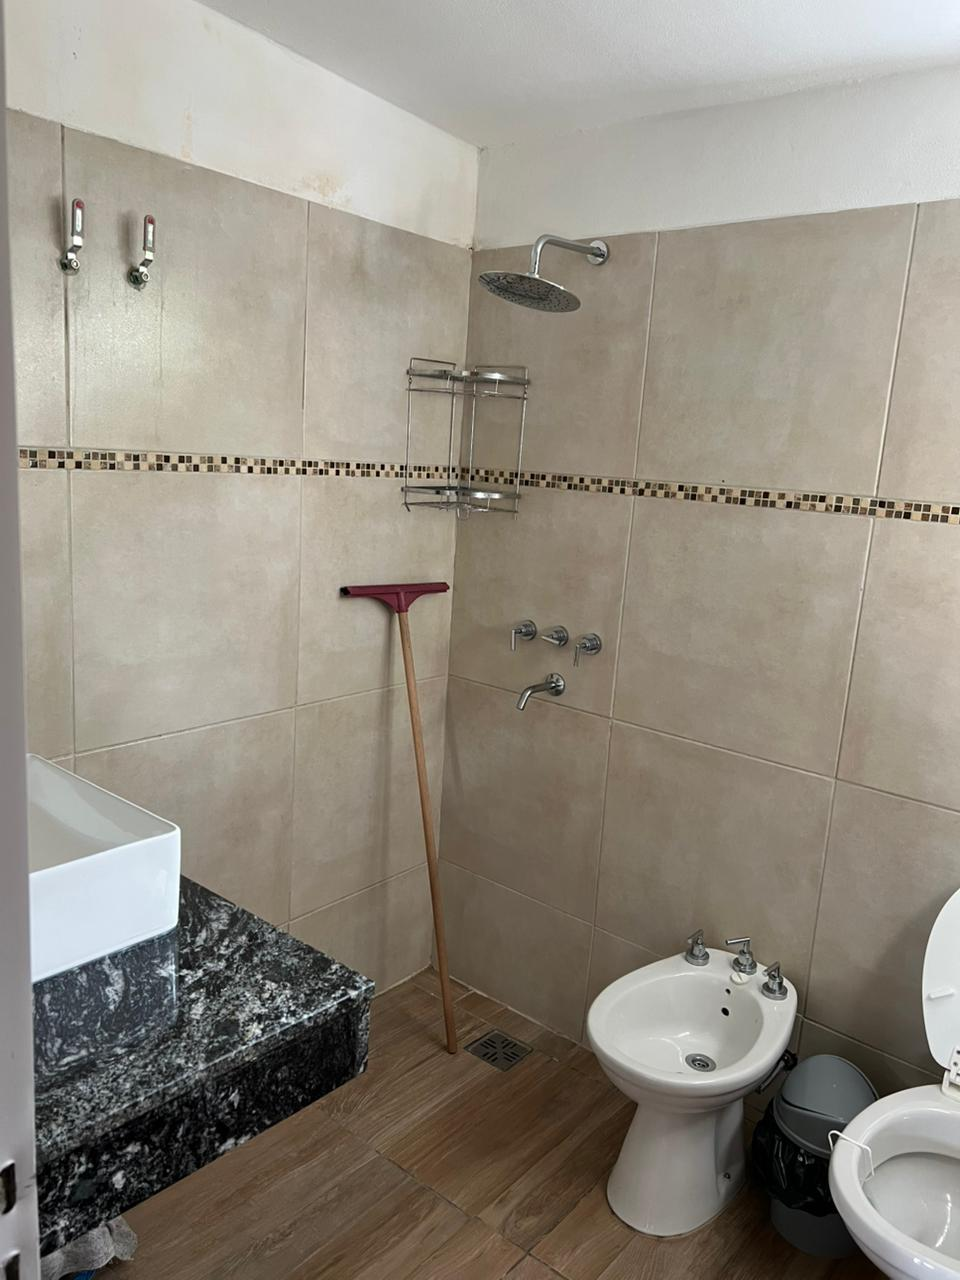
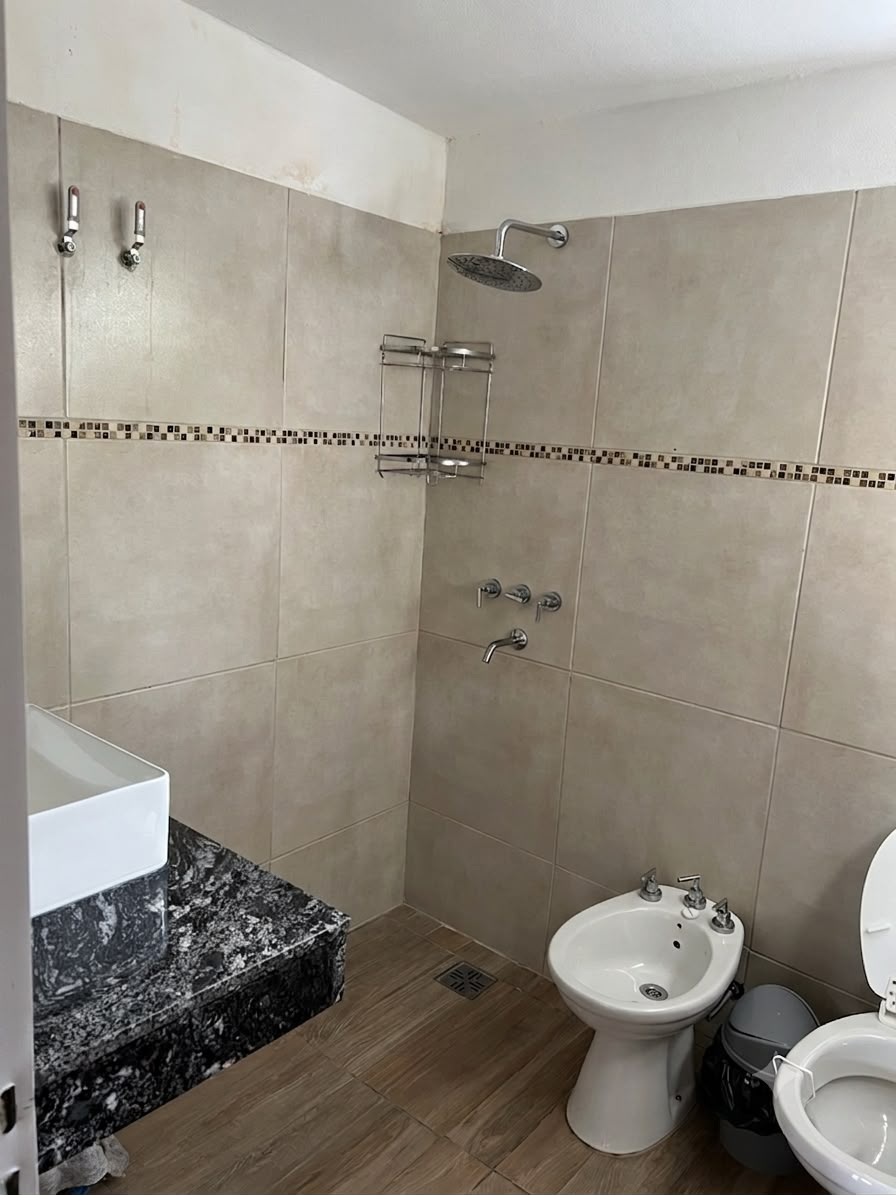
feat: actualizacion de imagenes erroneas y eliminacion de carrusel sin uso

diff --git a/index.html b/index.html
@@ -54,14 +54,7 @@
 
 </section>
 
-<!-- LIGHTBOX GALERÍA -->
-<div class="lightbox" id="lightbox" onclick="cerrarGaleria()">
-    <button class="lightbox-cerrar" onclick="cerrarGaleria()">✕</button>
-    <button class="lightbox-btn izq" onclick="event.stopPropagation(); cambiarLightbox(-1)">&#8249;</button>
-    <img id="lightbox-img" src="" alt="" onclick="event.stopPropagation()">
-    <button class="lightbox-btn der" onclick="event.stopPropagation(); cambiarLightbox(1)">&#8250;</button>
-    <div class="lightbox-puntos" id="lightbox-puntos"></div>
-</div>
+
     <section id="cabanas">
     <h2>Cabañas</h2>
     <p class="seccion-subtitulo">Elegí tu espacio ideal para descansar</p>

diff --git a/script.js b/script.js
@@ -93,7 +93,7 @@ function abrirModal(id) {
 
     actualizarPuntos();
     document.getElementById('modal-fondo').style.display = 'flex';
-    document.body.style.overflow = 'hidden';
+    
 }
 
 function actualizarImagen() {
@@ -126,7 +126,7 @@ function cambiarImagen(direccion) {
 
 function cerrarModal() {
     document.getElementById('modal-fondo').style.display = 'none';
-    document.body.style.overflow = '';
+    
 }
 
 // Cerrar con tecla ESC

diff --git a/style.css b/style.css
@@ -318,6 +318,8 @@ section h2 {
     align-items: center;
     justify-content: center;
     padding: 20px;
+    
+    
 }
  
 .modal-contenido {
@@ -367,7 +369,10 @@ section h2 {
     background-color: var(--gris-oscuro);
     display: block;
 }
- 
+.no-scroll{
+    overflow:hidden;
+    height:100%
+}
 .carrusel-btn {
     position: absolute;
     top: 50%;

diff --git a/README.md b/README.md
@@ -1,0 +1,79 @@
+# 🌿 Vida Paz — Complejo de Cabañas
+
+Sitio web oficial del complejo de cabañas **Vida Paz**, ubicado en Traslasierra, Córdoba, Argentina.
+
+---
+
+## 📋 Descripción
+
+Página web desarrollada desde cero con HTML, CSS y JavaScript puro. Diseño moderno, elegante y completamente responsive para mobile y desktop.
+
+---
+
+## ✨ Funcionalidades
+
+- **Header fijo** con logo y navegación que cambia al hacer scroll
+- **Hero** con foto de fondo y efecto parallax
+- **Galería de paisajes** deslizable con arrastre de mouse y táctil
+- **Sección de cabañas** con modal interactivo y carrusel de fotos
+- **Sección de información** con servicios, espacios y políticas de reserva
+- **Mapa de ubicación** embebido con Google Maps
+- **Reseñas** de Google con diseño en tarjetas
+- **Sección Conócenos** con historia del complejo y datos destacados
+- **Banner de Instagram** con link directo al perfil
+- **Footer completo** con navegación, contacto y redes sociales
+- **Botón flotante de WhatsApp** con mensaje predefinido
+- **Animaciones** al hacer scroll con Intersection Observer
+- **Diseño responsive** para celular, tablet y desktop
+
+---
+
+## 🛠 Tecnologías utilizadas
+
+- HTML5
+- CSS3 (Grid, Flexbox, Variables CSS, Media Queries)
+- JavaScript vanilla (sin frameworks)
+- Google Maps Embed API
+- Google Fonts (Raleway)
+
+---
+
+## 📁 Estructura del proyecto
+
+```
+vida-paz/
+│
+├── index.html          # Página principal
+├── style.css           # Estilos
+├── script.js           # Funcionalidades JavaScript
+├── README.md           # Documentación
+│
+└── imagenes/           # Recursos visuales
+    ├── logo.jpeg
+    ├── logoedit.png
+    ├── fondo-hero.jpg
+    ├── cabana-1.webp
+    ├── cabana-2.webp
+    ├── cabana-3.webp
+    ├── cabana-4.webp
+    ├── p1.jpeg ... p7.jpeg
+    └── ...
+```
+
+---
+
+## 📞 Contacto
+
+- **WhatsApp:** [351 804 0797](https://wa.me/543518040797)
+- **Instagram:** [@vida_paz_traslasierras](https://www.instagram.com/vida_paz_traslasierras)
+- **Ubicación:** Traslasierra, Córdoba, Argentina
+
+---
+
+## 🚀 Deploy
+
+El sitio está publicado en **Netlify**.
+
+---
+
+*Desarrollado con ❤ para Vida Paz Vacaciones*
